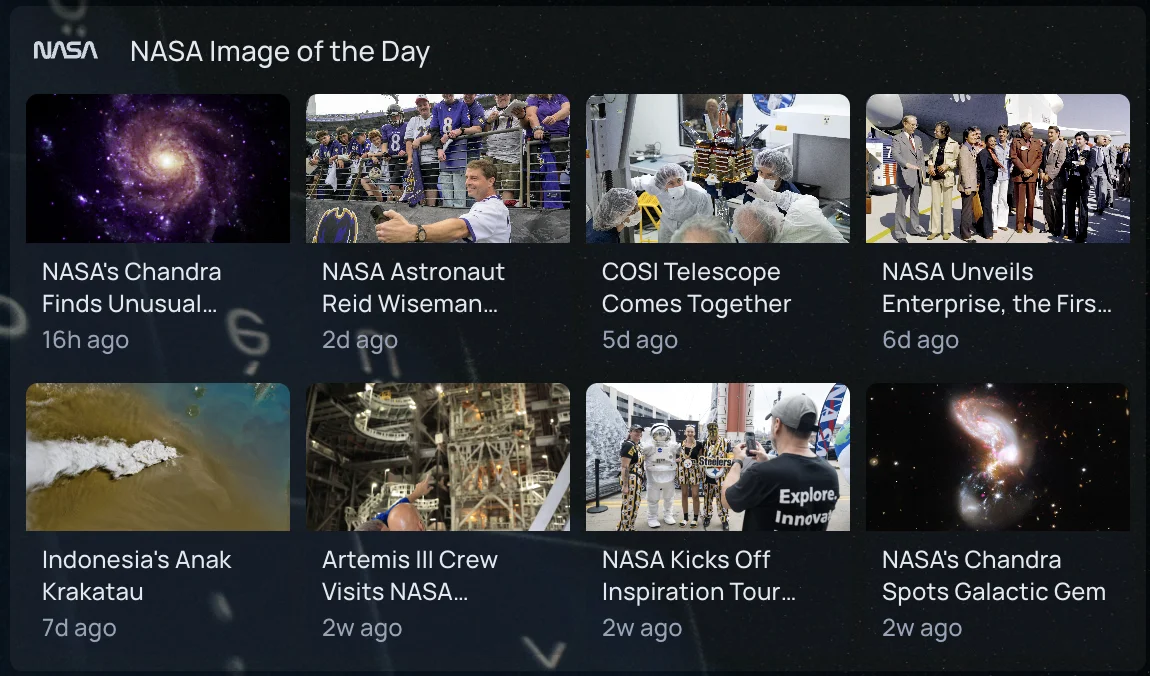
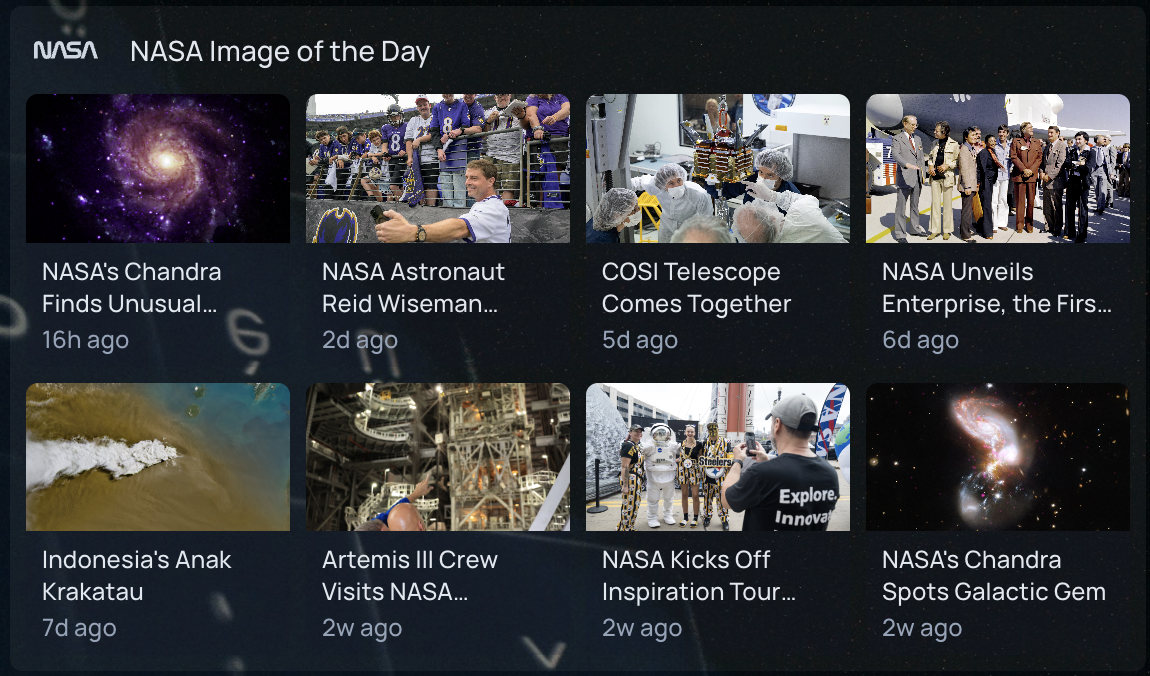
Fix example, images

diff --git a/docs/widgets/services/feed.md b/docs/widgets/services/feed.md
@@ -25,10 +25,10 @@ widget:
 `grid` shows image tiles that re-flow to fit the width of the widget, e.g.:
 
 ```yaml
-- World News:
+- NASA Image of the Day:
     widget:
       type: feed
-      url: https://feeds.bbci.co.uk/news/world/rss.xml
+      url: https://www.nasa.gov/feeds/iotd-feed/
       layout: grid
       maxItems: 8
 ```
